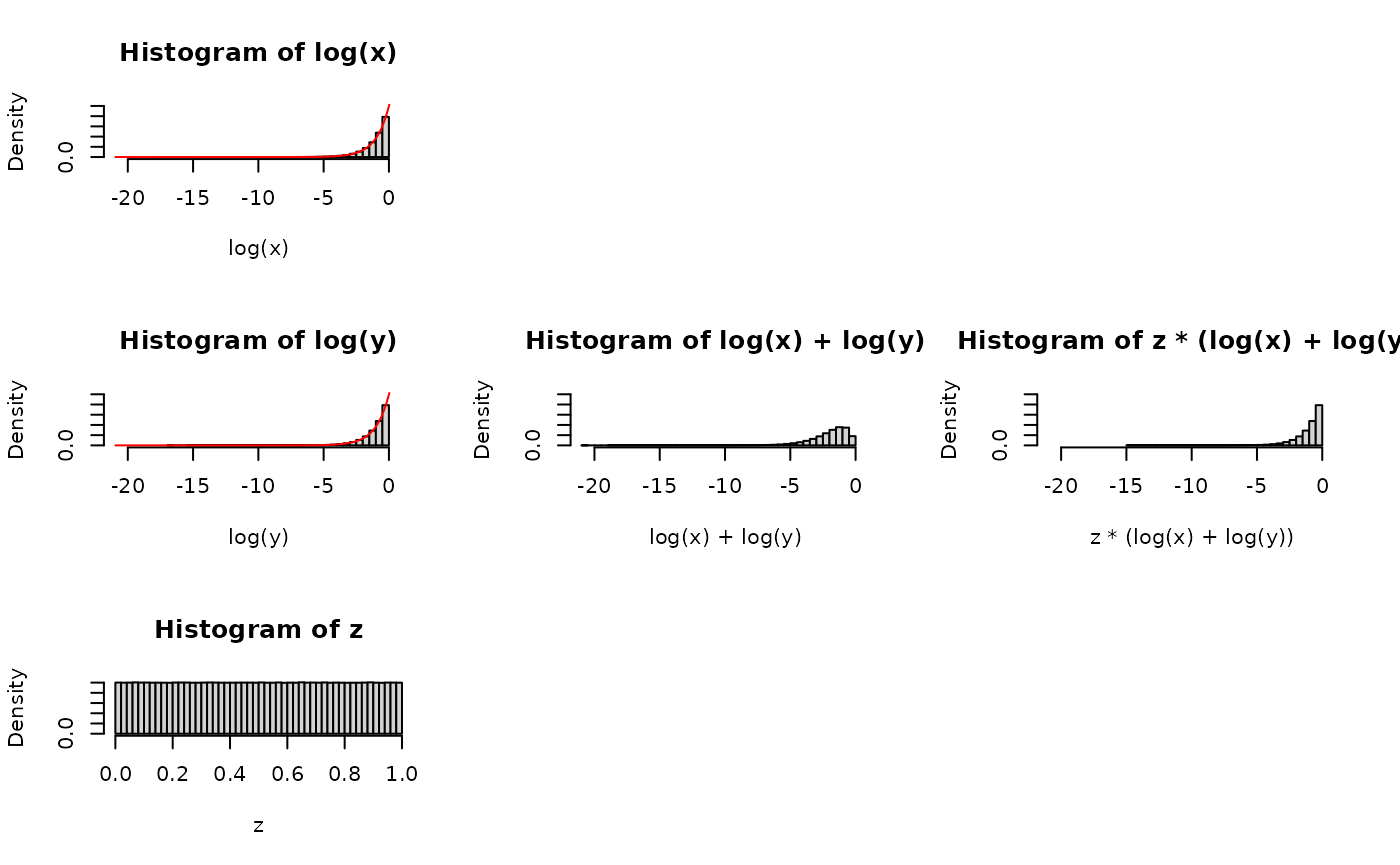
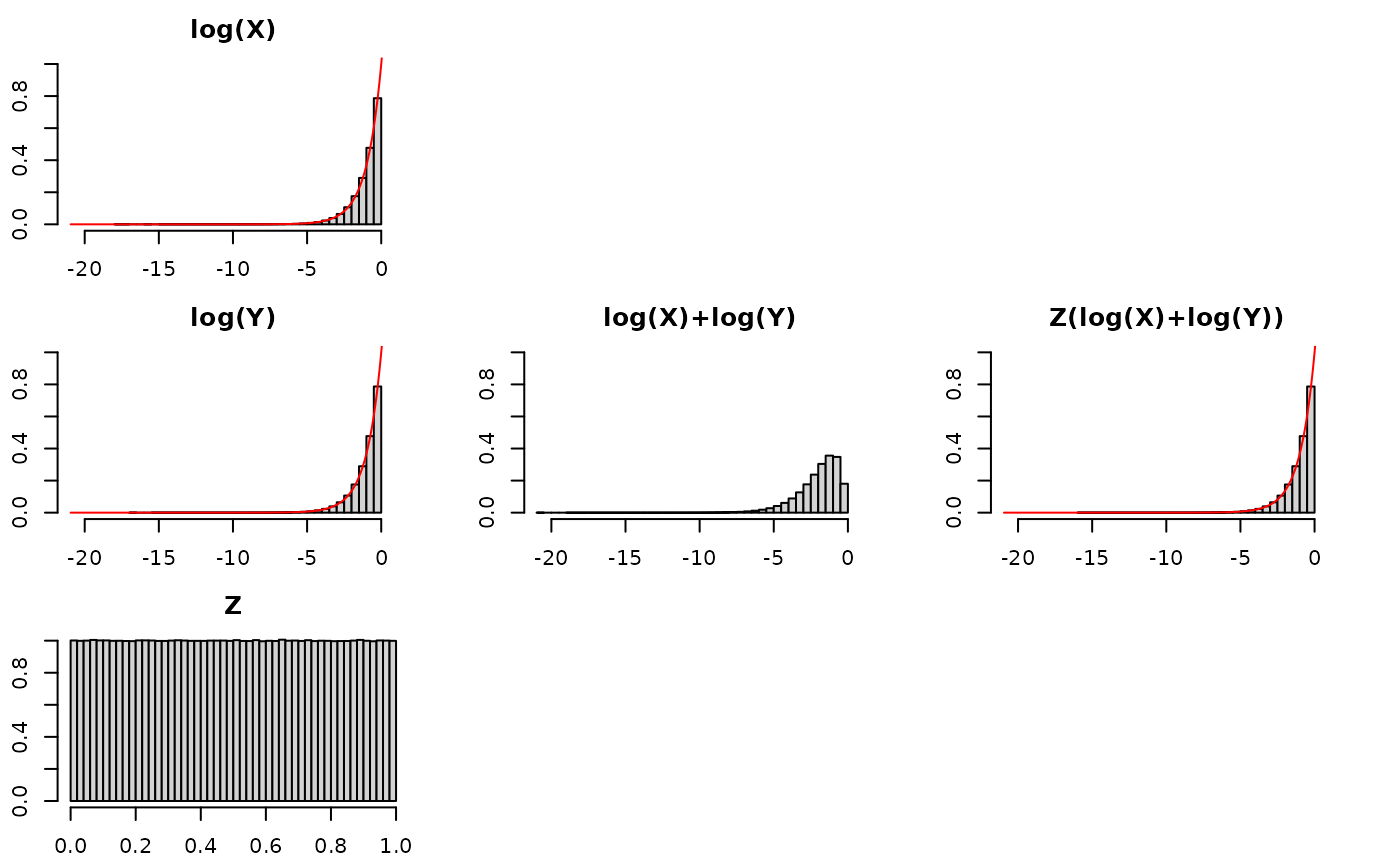
Deploying to gh-pages from @ swihart/mvpd@6199d2065c06e90327e043f8de62f1640350d85a 🚀

diff --git a/articles/xy_to_the_z_part_i.html b/articles/xy_to_the_z_part_i.html
@@ -221,8 +221,31 @@ as an arbitrary value smaller than 1.</p>
 <p>Consider the log scale, which changes the relation from a product
 raised to a power into a sum multiplied by a number. In other words, a
 convolution (sum of two random variables) and a scale mixture (then
-multiplied by a random variable). Take a look at this:</p>
+multiplied by a random variable). Take a look at this for alpha=1:</p>
 <p><img src="xy_to_the_z_part_i_files/figure-html/unnamed-chunk-5-1.png" width="700"></p>
+<p>Quick observations –</p>
+<ul>
+<li>log(X): is a reflected Exponential, as is log(Y)</li>
+<li>log(X) + log(Y): the convolution (i.e., sum) of two reflected
+Exponentials is more disperse and squattier. We know this because think
+of adding two normals together and the resultant Normal have the sum of
+the variance.</li>
+<li>Z(log(X)+log(Y)): to “recover” or “get back to” the original
+distribution before the convolution, we need to “tighten” or “gather” or
+“concentrate” the distribution. Multiplying it by a random number
+between 0 and 1 will do exactly that.</li>
+</ul>
+<p>See for other values for alpha:</p>
+<div class="section level4">
+<h4 id="alpha-4-318-1">alpha = 4.318<a class="anchor" aria-label="anchor" href="#alpha-4-318-1"></a>
+</h4>
+<p><img src="xy_to_the_z_part_i_files/figure-html/unnamed-chunk-6-1.png" width="700"></p>
+</div>
+<div class="section level4">
+<h4 id="alpha-0-633-1">alpha = 0.633<a class="anchor" aria-label="anchor" href="#alpha-0-633-1"></a>
+</h4>
+<p><img src="xy_to_the_z_part_i_files/figure-html/unnamed-chunk-7-1.png" width="700"></p>
+</div>
 </div>
 <div class="section level3">
 <h3 id="sanity-check-result-2">Sanity check: Result 2<a class="anchor" aria-label="anchor" href="#sanity-check-result-2"></a>
@@ -276,7 +299,7 @@ We’ll plot the theoretical result in purple on top of the histogram.</p>
 <span><span class="co">#&gt; [1] 0.2108825</span></span>
 <span><span class="fu"><a href="https://rdrr.io/r/stats/cor.html" class="external-link">var</a></span><span class="op">(</span><span class="fl">1</span><span class="op">/</span><span class="va">x</span><span class="op">)</span> <span class="op">+</span> <span class="fu"><a href="https://rdrr.io/r/base/mean.html" class="external-link">mean</a></span><span class="op">(</span><span class="fl">1</span><span class="op">/</span><span class="va">x</span><span class="op">)</span><span class="op">^</span><span class="fl">2</span></span>
 <span><span class="co">#&gt; [1] 1.98879</span></span></code></pre></div>
-<p><img src="xy_to_the_z_part_i_files/figure-html/unnamed-chunk-6-1.png" width="50%"><img src="xy_to_the_z_part_i_files/figure-html/unnamed-chunk-6-2.png" width="50%"></p>
+<p><img src="xy_to_the_z_part_i_files/figure-html/unnamed-chunk-8-1.png" width="50%"><img src="xy_to_the_z_part_i_files/figure-html/unnamed-chunk-8-2.png" width="50%"></p>
 <div class="section level4">
 <h4 id="section"></h4>
 </div>

diff --git a/articles/deep_dive_kolm.html b/articles/deep_dive_kolm.html
@@ -350,7 +350,7 @@ the denominators, and then take the square root of that sum.</p>
 <span><span class="va">rkdraw</span> <span class="op">&lt;-</span> <span class="fu"><a href="../reference/rkolm.html">rkolm</a></span><span class="op">(</span><span class="fl">5e4</span>, nterms<span class="op">=</span><span class="fl">5e2</span><span class="op">)</span></span>
 <span><span class="va">end</span> <span class="op">&lt;-</span> <span class="fu"><a href="https://rdrr.io/r/base/Sys.time.html" class="external-link">Sys.time</a></span><span class="op">(</span><span class="op">)</span></span>
 <span><span class="va">end</span><span class="op">-</span><span class="va">beg</span></span>
-<span><span class="co">#&gt; Time difference of 0.882957 secs</span></span>
+<span><span class="co">#&gt; Time difference of 0.8845792 secs</span></span>
 <span></span>
 <span><span class="co">## Expected value</span></span>
 <span><span class="fu"><a href="https://rdrr.io/r/base/print.html" class="external-link">print</a></span><span class="op">(</span><span class="fu"><a href="https://rdrr.io/r/base/matrix.html" class="external-link">matrix</a></span><span class="op">(</span><span class="fu"><a href="https://rdrr.io/r/base/c.html" class="external-link">c</a></span><span class="op">(</span></span>
